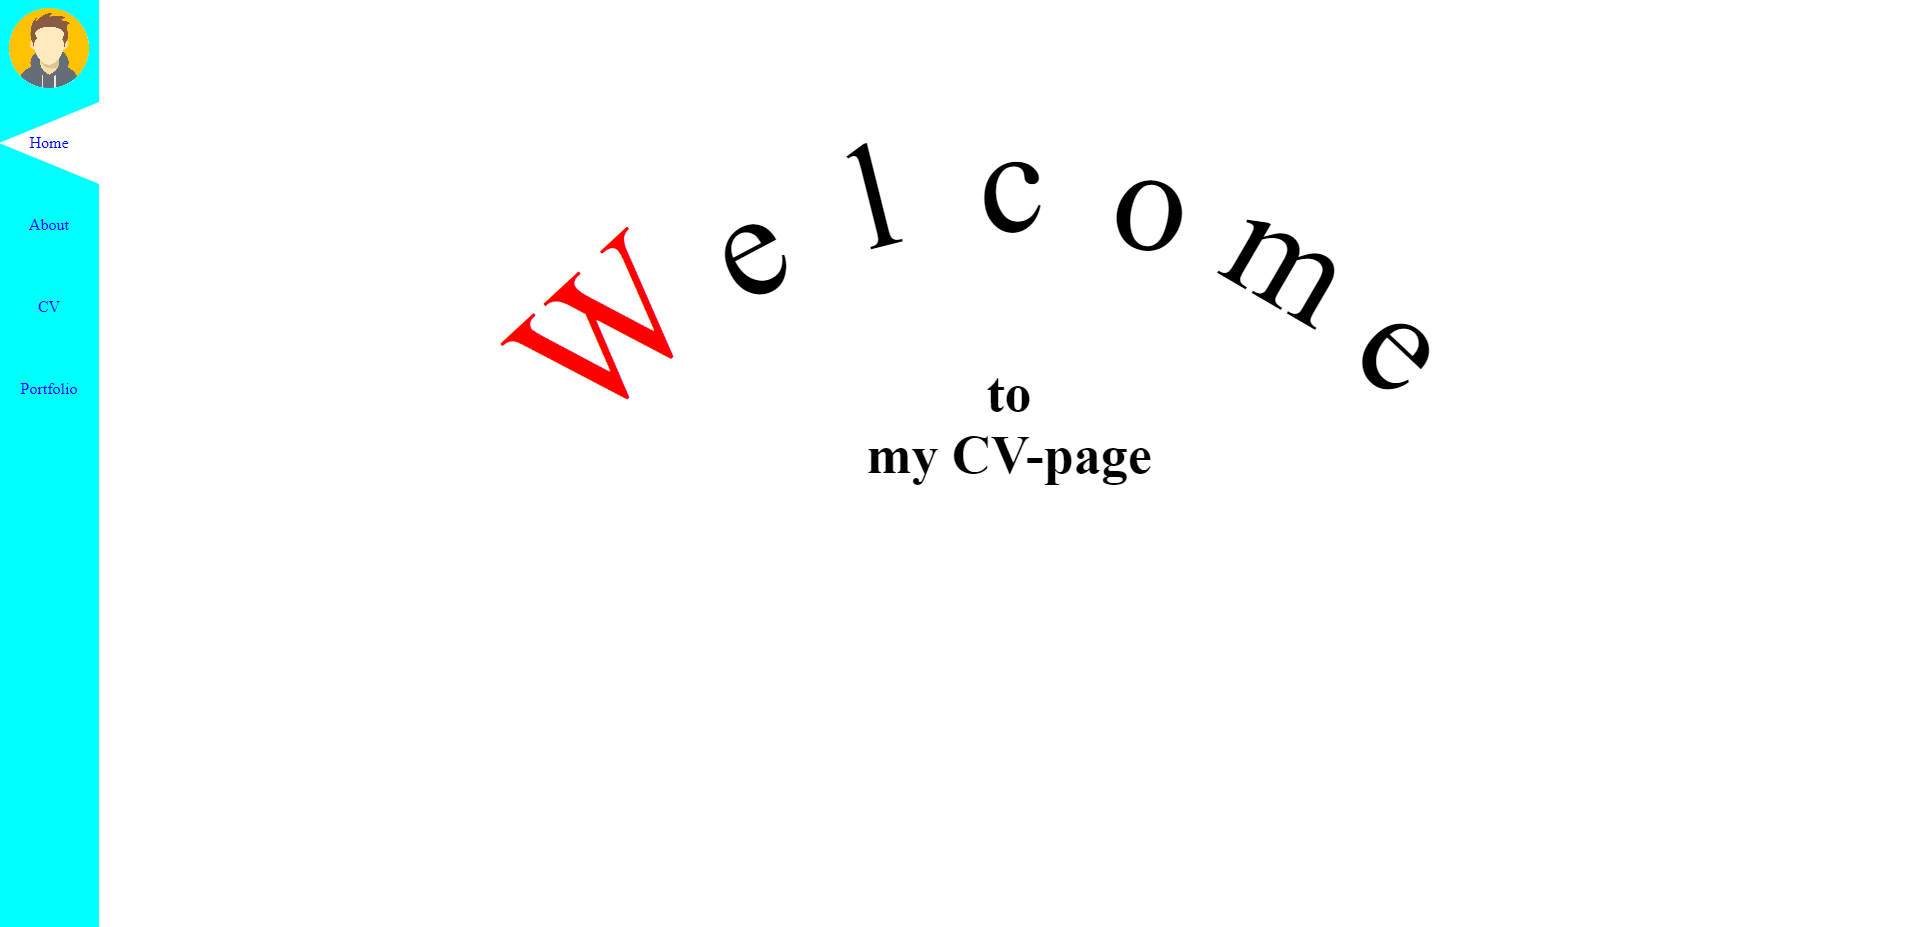
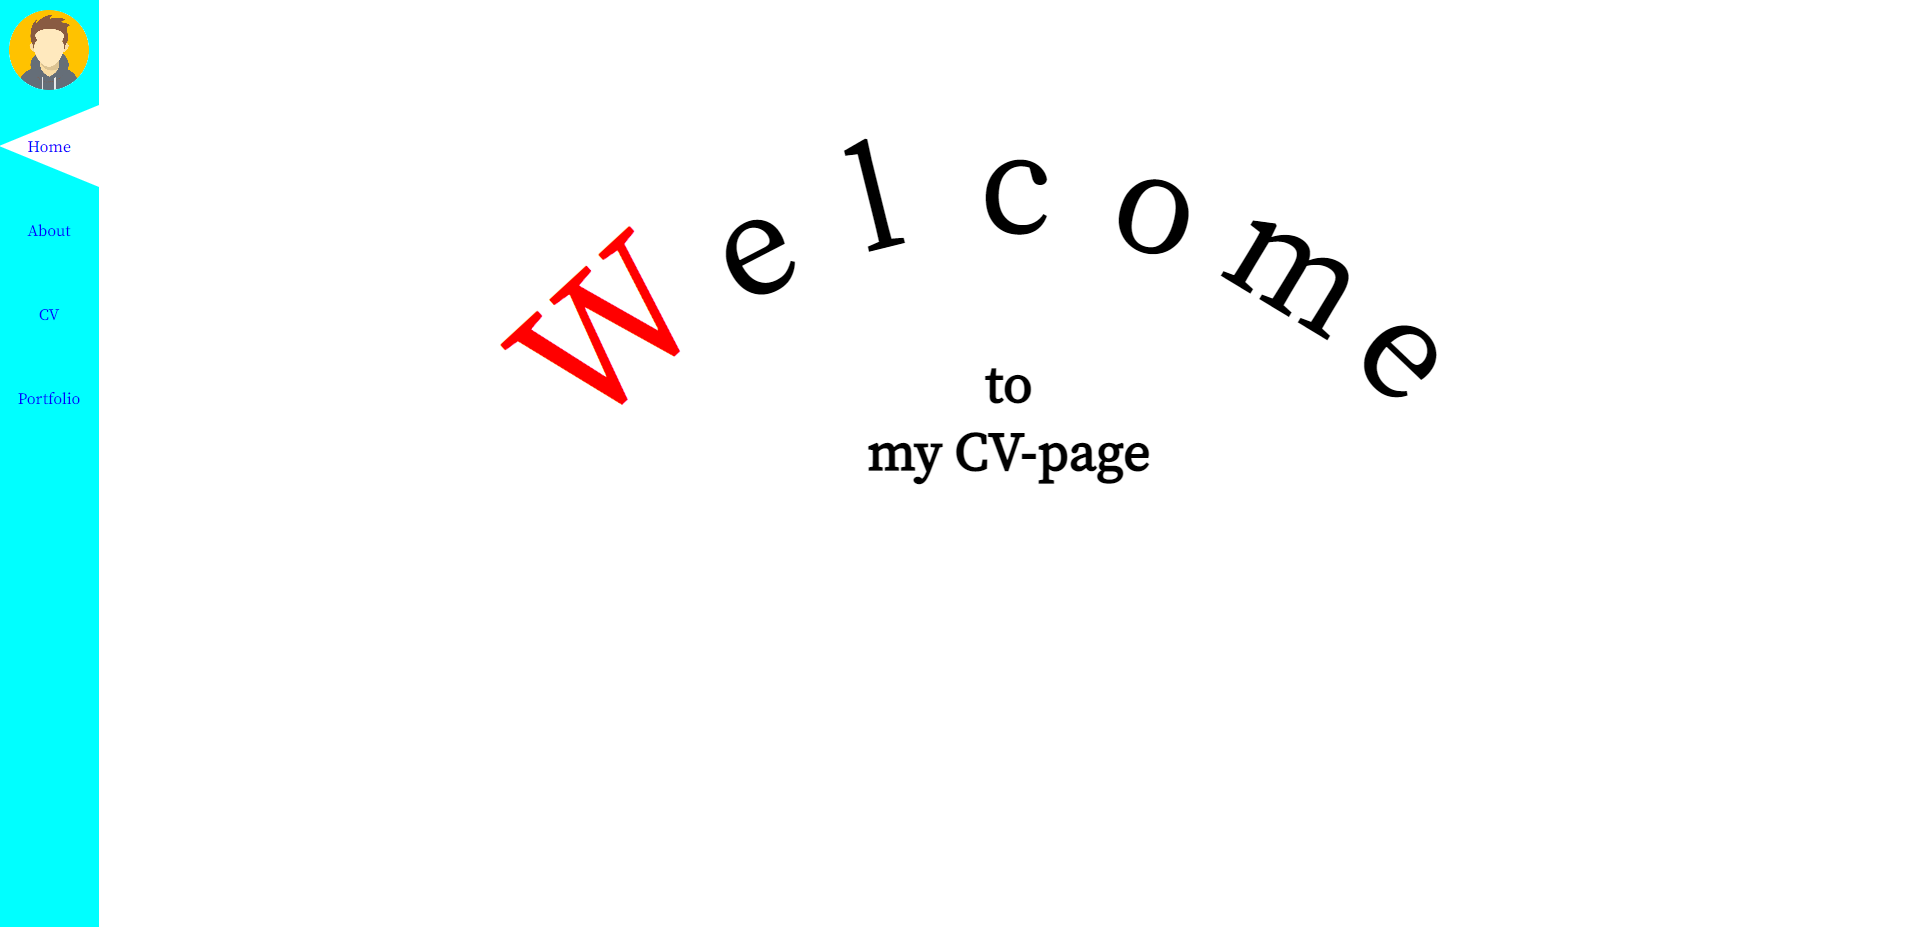
new font, created about and cv pages

diff --git a/style.css b/style.css
@@ -1,8 +1,10 @@
+@import url('https://fonts.googleapis.com/css2?family=Source+Serif+Pro&display=swap');
+
 * {
     margin: 0;
     box-sizing: border-box;
+    font-family: 'Source Serif Pro';
 }
-
 
 /* Desktop */
 body {
@@ -60,7 +62,9 @@ header {
     grid-column: 1;
 } */
 
-.hover-shape,.nav-list-item-link, .page-marker {
+.hover-shape,
+.nav-list-item-link,
+.page-marker {
     grid-row: 1;
     grid-column: 1;
 }
@@ -112,7 +116,8 @@ main {
     text-align: center;
 }
 
-svg, .welcome-message {
+svg,
+.welcome-message {
     grid-row: 1;
     grid-column: 1;
     max-width: 1250px;
@@ -124,45 +129,51 @@ svg {
 
 }
 
-svg text{
+svg text {
     font-size: 60px;
 }
 
-.w-big, .e-big, .l-big, .c-big, .o-big, .m-big, .e2-big {
+.w-big,
+.e-big,
+.l-big,
+.c-big,
+.o-big,
+.m-big,
+.e2-big {
     display: none;
 }
 
-.w:hover + .w-big {
+.w:hover+.w-big {
     pointer-events: none;
     display: block;
 }
 
-.e:hover + .e-big {
+.e:hover+.e-big {
     pointer-events: none;
     display: block;
 }
 
-.l:hover + .l-big {
+.l:hover+.l-big {
     pointer-events: none;
     display: block;
 }
 
-.c:hover + .c-big {
+.c:hover+.c-big {
     pointer-events: none;
     display: block;
 }
 
-.o:hover + .o-big {
+.o:hover+.o-big {
     pointer-events: none;
     display: block;
 }
 
-.m:hover + .m-big {
+.m:hover+.m-big {
     pointer-events: none;
     display: block;
 }
 
-.e2:hover + .e2-big {
+.e2:hover+.e2-big {
     pointer-events: none;
     display: block;
 }
@@ -170,6 +181,73 @@ svg text{
 .welcome-message {
     align-self: end;
     font-size: clamp(20px, 4vw, 54px);
+}
+
+/* About main */
+.about-avatar-image {
+    object-fit: cover;
+    border-radius: 50%;
+    height: 300px;
+    width: 300px;
+    display: block;
+    margin: 50px auto 0;
+}
+
+.about-main h1 {
+    margin: 25px 0;
+    text-align: center;
+}
+
+.about-main p {
+    margin: 0 10vw;
+}
+
+/* CV main */
+.cv-main {
+    display: flex;
+    flex-direction: column;
+    align-items: center;
+}
+
+.cv-main h1 {
+    /* text-align: center; */
+    margin: 10px 0;
+}
+
+.cv-content {
+    display: flex;
+    flex-direction: column;
+    align-items: start;
+    width: fit-content;
+    margin: 0 5vw;
+}
+
+/* .cv-content p {
+    display: inline-block;
+} */
+
+.education, .work-experience, .competencies {
+    /* display: flex;
+    flex-direction: column; */
+    display: grid;
+    grid-template-columns: repeat(fit-content);
+}
+
+.work-experience {
+    margin-top: 1rem;
+    margin-bottom: 1rem;
+}
+
+.fa {
+    grid-column: 1;
+    place-self: center;
+    margin-right: 1rem;
+    color: red;
+}
+
+.cv-content h2, .cv-content p, .cv-content small, .cv-content ul {
+    grid-column: 2;
+    align-self: center;
 }
 
 /* Portfolio main */
@@ -181,9 +259,7 @@ svg text{
     font-size: 2rem;
 }
 
-.projects {
-    
-}
+.projects {}
 
 .projects ul {
     list-style-type: none;
@@ -246,12 +322,12 @@ svg text{
     padding: 2px;
 }
 
-.github-logo:hover img{
+.github-logo:hover img {
     padding: 0;
 }
 
 /* Mobile */
-@media (max-width: 768px) {
+@media (max-width: 768px), (max-height: 450px) { /* Fix Mobile landscape mode */
     /* Header/nav */
     header {
         height: 80px;
@@ -268,7 +344,7 @@ svg text{
         width: 100%;
         display: flex;
         align-items: center;
-        
+
     }
 
     .nav-list {
@@ -281,13 +357,13 @@ svg text{
         border-radius: 0%;
     }
 
-    .nav-list-item-link:hover .nav-text-hover{
+    .nav-list-item-link:hover .nav-text-hover {
         color: crimson;
         text-decoration: underline;
         text-underline-offset: .2em;
     }
 
-    .nav-list-item-link:active .nav-text-hover{
+    .nav-list-item-link:active .nav-text-hover {
         color: rgb(220, 157, 20);
     }
 
@@ -308,10 +384,17 @@ svg text{
     .hover-shape {
         display: none;
     }
-    
+
     /* Main */
     main {
         margin-left: 0;
         /* margin-top: 80px; */
+    }
+
+    /* About main */
+    .about-avatar-image {
+        height: 50vw;
+        width: 50vw;
+        margin: 5vh auto 0;
     }
 }

diff --git a/cv.html b/cv.html
@@ -6,6 +6,7 @@
     <meta http-equiv="X-UA-Compatible" content="IE=edge">
     <meta name="viewport" content="width=device-width, initial-scale=1.0">
     <link rel="stylesheet" href="style.css">
+    <link rel="stylesheet" href="https://maxcdn.bootstrapcdn.com/font-awesome/4.3.0/css/font-awesome.min.css">
     <title>CV</title>
 </head>
 
@@ -45,7 +46,28 @@
         </nav>
     </header>
     <main class="cv-main">
-
+        <h1>CV</h1>
+        <div class="cv-content">
+            <div class="education">
+                <div class="fa fa-graduation-cap fa-2x"></div>
+                <h2>Education</h2>
+                <p>Bachelers Program Biology | Stockholm University<br>2015-2020</p>
+                <small>150HP</small>
+            </div>
+            <div class="work-experience">
+                <div class="fa fa-briefcase fa-2x"></div>
+                <h2>Work Experience</h2>
+                <p>Park Maintenance | Nabbo Samfällighetsförening<br>2015-2020</p>
+                <small>Summer Job, Forest Maintenance, Beach Maintenance, Painting, Carpentry etc.</small>
+            </div>
+            <div class="competencies">
+                <div class="fa fa-wrench fa-2x"></div>
+                <h2>Competencies</h2>
+                <ul>
+                    <li>Languages: Swedish, English</li>
+                </ul>
+            </div>
+        </div>
     </main>
 </body>
 

diff --git a/about.html b/about.html
@@ -45,7 +45,9 @@
         </nav>
     </header>
     <main class="about-main">
-
+        <img class="about-avatar-image" src="https://e7.pngegg.com/pngimages/799/987/png-clipart-computer-icons-avatar-icon-design-avatar-heroes-computer-wallpaper.png" alt="User Avatar">
+        <h1>Richard Ejdling</h1>
+        <p>Lorem ipsum dolor sit amet consectetur adipisicing elit. Esse, veniam reprehenderit quasi dolore, saepe suscipit eveniet repellendus aliquid facilis, sed quaerat. Nostrum, cupiditate excepturi illum temporibus aliquam minima culpa laborum? Lorem ipsum dolor sit, amet consectetur adipisicing elit. Est eligendi at incidunt repellendus veniam ex error cupiditate commodi libero accusantium autem tenetur animi eveniet ducimus, nihil sit consequuntur illo aperiam! </p>
     </main>
 </body>
 
